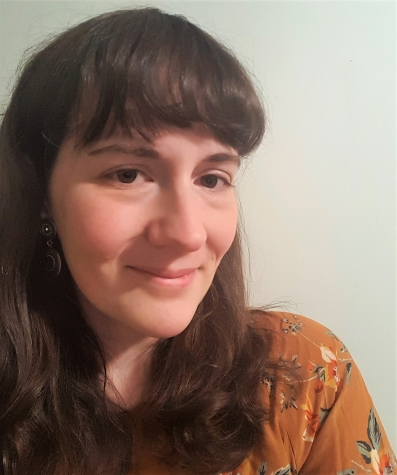
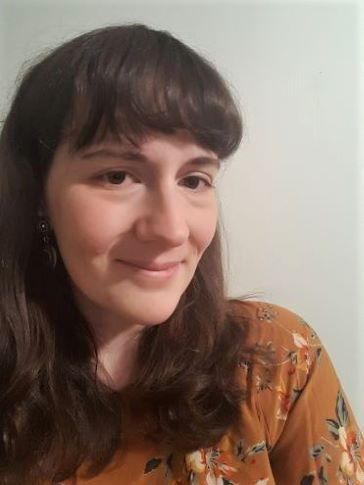
Centers cover photo

diff --git a/index.html b/index.html
@@ -40,14 +40,17 @@
 	
 	<div id="gridsite">	
 		<section id="photo">
-			<img src="./assets/CoverPhoto1.jpg" alt="cover photo"/>
+			<section id="innerphoto">
+				<img src="./assets/CoverPhoto1.jpg" alt="cover photo"/>
+			</section>
 		</section>
 		<section id="section1">
 			<h3>Welcome to My Portfolio!</h3>
 			<p>I'm a current IT Programming student and lifelong learner, based in Halifax, Nova Scotia. I have a proven academic and professional track record, and I'd love to expand on my experiences further in a career with the right organization.</p>
 			<p>When I'm not coding, you'll find me gaming (video or board), reading, embroidering or writing. I am a published poet who attends and participates in readings. I also enjoy photography: the background photo for this site is mine.</p>
-			<p>Please take a look at the information on this site, and feel free to <a href="contact_info.html">contact me</a> if you have any questions, or would like further information.</p>
+			<p>Please take a look at the information on this site, and feel free to <a href="contact_info.html">contact me</a> if you have any questions, or would like further information. </p>
 			<a href="https://github.com/alisongoodhew">Or take a look at my GitHub!</a>
+			
 		</section>
 	</div>
 	<footer>

diff --git a/css/css_styles.css b/css/css_styles.css
@@ -93,6 +93,35 @@ footer > p {
 	
 }
 
+#photo {
+	
+	padding: 15px;
+	
+}
+
+/*Following code solution from https://stackoverflow.com/questions/11478067/replacement-for-center */
+/*********/
+#photo {
+
+	text-align: center;
+	height: 495px;
+	border-radius: 10px;
+}
+
+#innerPhoto {
+	
+	margin: auto;
+	text-align: left;
+	
+}
+/*********/
+
+#photo img {
+	
+	border-radius: 10px;
+}
+
+
 
 
 

diff --git a/css/css_layout.css b/css/css_layout.css
@@ -102,8 +102,9 @@ body {
 	
 	#photo {
 	
-		display: none;
+		display: block;
 		width: 50%;
+		
 	}
 	
 	
@@ -339,6 +340,16 @@ body {
 
 
 }
+
+@media screen and (max-width: 480px) {
+	#photo {
+		display: none;
+		
+	}
+	
+}
+
+
 
 
 
